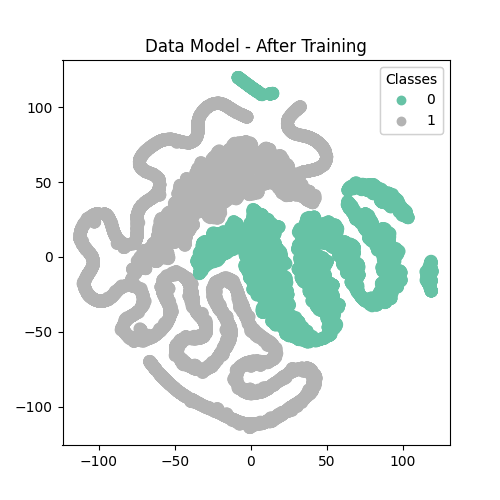
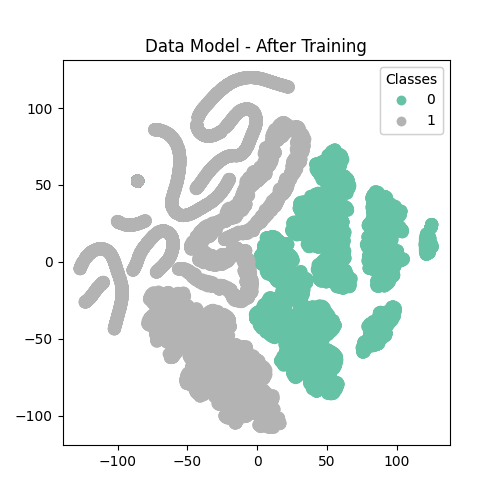
we pick the best model based on the performance on the test set.

diff --git a/runnet0.py b/runnet0.py
@@ -8,12 +8,12 @@ class Agent:
 class NeuralNetwork:
     def __init__(self, input_dim, hidden1_dim, hidden2_dim, hidden3_dim, output_dim, dropout_rate=0.2):
         self.weights = [
-            np.random.randn(hidden1_dim, input_dim),
-            np.random.randn(hidden2_dim, hidden1_dim),
-            np.random.randn(hidden3_dim, hidden2_dim),
-            np.random.randn(output_dim, hidden3_dim),
-
+            np.random.randn(hidden1_dim, input_dim) / np.sqrt(input_dim),
+            np.random.randn(hidden2_dim, hidden1_dim) / np.sqrt(hidden1_dim),
+            np.random.randn(hidden3_dim, hidden2_dim) / np.sqrt(hidden2_dim),
+            np.random.randn(output_dim, hidden3_dim) / np.sqrt(hidden3_dim),
         ]
+
         self.biases = [
             np.random.randn(hidden1_dim, 1),
             np.random.randn(hidden2_dim, 1),
@@ -21,52 +21,62 @@ class NeuralNetwork:
             np.random.randn(output_dim, 1)
         ]
         self.dropout_rate = dropout_rate
+        # New instance variables for batch norm
+        self.bn_means = [np.zeros((1, dim)) for dim in [hidden1_dim, hidden2_dim, hidden3_dim, output_dim]]
+        self.bn_vars = [np.zeros((1, dim)) for dim in [hidden1_dim, hidden2_dim, hidden3_dim, output_dim]]
+        self.bn_decay = 0.9  # Decay rate for the running averages
 
-    def propagate(self, X, training=True):
+    def propagate(self, X, training=True, return_hidden=False):
         X = np.array(X).reshape(-1, self.weights[0].shape[1])  # Ensure X has the correct shape
-        hidden1 = self.relu(np.dot(X, self.weights[0].T) + self.biases[0].T)
-        #
-        # if training:
-        #     self.dropout_rate = 0.2
-        #     # Apply dropout to hidden1
-        #     mask1 = np.random.binomial(1, 1 - self.dropout_rate, size=hidden1.shape) / (1 - self.dropout_rate)
-        #     hidden1 *= mask1
+        hidden1 = self.elu(np.dot(X, self.weights[0].T) + self.biases[0].T)
 
         hidden2 = self.relu(np.dot(hidden1, self.weights[1].T) + self.biases[1].T)
+        hidden2 = self.batch_norm(hidden2, 1, training)  # Specify layer index and training
 
-        # if training:
-        #     # Apply dropout to hidden layers
-        #     mask2 = np.random.binomial(1, 1 - self.dropout_rate, size=hidden2.shape) / (1 - self.dropout_rate)
-        #     hidden2 *= mask2
-
-        hidden3 = self.relu(np.dot(hidden2, self.weights[2].T) + self.biases[2].T)
-
+        hidden3 = self.elu(np.dot(hidden2, self.weights[2].T) + self.biases[2].T)
+        hidden3 = self.dropout(hidden3, self.dropout_rate, training)
 
         output_layer = self.sigmoid(np.dot(hidden3, self.weights[3].T) + self.biases[3].T)
 
-        return output_layer
-
+        # If we're interested in the activations of the last hidden layer for draw TSNE:
+        if return_hidden:
+            return hidden3
+        else:
+            return output_layer
 
     def relu(self, x):
         return np.maximum(0, x)
+
     def sigmoid(self, x):
         return 1 / (1 + np.exp(-x))
 
+    def elu(self, x,
+            alpha=1.0):  # The alpha parameter controls the value that ELU converges towards for negative net inputs
+        return np.where(x >= 0.0, x, alpha * (np.exp(x) - 1))
 
-def save_network(agent, filename):
-    with open(filename, "w") as f:
-        # Saving dimensions
-        f.write(f"{len(agent.neural_network.weights)}\n") # number of layers
-        for weight in agent.neural_network.weights:
-            f.write(f"{weight.shape[0]} {weight.shape[1]}\n") # dimensions of each layer
+    def dropout(self, X, dropout_rate, training=True):
+        if not training:
+            return X
+        keep_prob = 1 - dropout_rate
+        mask = np.random.binomial(1, keep_prob, size=X.shape) / keep_prob
+        return X * mask
 
-        # Saving weights
-        for weight in agent.neural_network.weights:
-            np.savetxt(f, weight)
+    def batch_norm(self, X, layer, training=True):
+        if training:
+            mean = np.mean(X, axis=0, keepdims=True)
+            var = np.var(X, axis=0, keepdims=True)
 
-        # Saving biases
-        for bias in agent.neural_network.biases:
-            np.savetxt(f, bias)
+            # Update running averages
+            self.bn_means[layer] = self.bn_decay * self.bn_means[layer] + (1 - self.bn_decay) * mean
+            self.bn_vars[layer] = self.bn_decay * self.bn_vars[layer] + (1 - self.bn_decay) * var
+        else:
+            # Use running averages
+            mean = self.bn_means[layer]
+            var = self.bn_vars[layer]
+
+        X_norm = (X - mean) / np.sqrt(var + 1e-8)
+        return X_norm
+
 
 def load_network(filename):
     # Load the dictionary from the numpy .npz file

diff --git a/NeuralNetworkV5.py b/NeuralNetworkV5.py
@@ -286,11 +286,21 @@ def execute(q, fig_graphs, ax1, fig_tsne_before, ax_tsne_before, fig_tsne_after,
 
         print(f"Train Loss: {train_loss}, Train Accuracy: {train_accuracy}")
         q.put(f"Train Loss: {train_loss}, Train Accuracy: {train_accuracy}")
+        if train_accuracy > 0.992 and train_loss < 0.02 and generations >= 200:
+            break
 
+    bestTestScore = -np.inf
+    bestLoss = np.inf
+    bestNeuralNetwork = best_solution
     for agent in agents:
         isTrain = False
         train_loss = agent.fitness
         test_accuracy = calculate_accuracy(agent, X_test, y_test, isTrain)
+        if test_accuracy > bestTestScore:
+            bestTestScore = test_accuracy
+            bestNeuralNetwork = agent
+        if test_accuracy == bestTestScore and bestLoss > train_loss:
+            bestNeuralNetwork = agent
         train_accuracy = calculate_accuracy(agent, X_train, y_train, isTrain)
 
         print(f"Train Loss: {train_loss}, Train Accuracy: {train_accuracy}, Test Accuracy: {test_accuracy}")
@@ -298,24 +308,24 @@ def execute(q, fig_graphs, ax1, fig_tsne_before, ax_tsne_before, fig_tsne_after,
 
 
     isTrain = False
-    train_loss = best_solution.fitness
-    test_accuracy = calculate_accuracy(best_solution, X_test, y_test, isTrain)
-    train_accuracy = calculate_accuracy(best_solution, X_train, y_train, isTrain)
+    train_loss = bestNeuralNetwork.fitness
+    test_accuracy = calculate_accuracy(bestNeuralNetwork, X_test, y_test, isTrain)
+    train_accuracy = calculate_accuracy(bestNeuralNetwork, X_train, y_train, isTrain)
     print("Best solution: ")
     print(f"Train Loss: {train_loss}, Train Accuracy: {train_accuracy}, Test Accuracy: {test_accuracy}")
-    y_pred = best_solution.neural_network.propagate(X_test)
+    y_pred = bestNeuralNetwork.neural_network.propagate(X_test)
     y_pred = np.round(y_pred)  # convert probabilities to class labels
     #cm = confusion_matrix(y_test, y_pred)
     precision, recall, fscore, _ = precision_recall_fscore_support(y_test, y_pred, average='binary')
     q.put(f'Please wait while we rendering the TSNE results...')
-    visualize(q, fig_tsne_after, ax_tsne_after, canvas3, best_solution, X_train, y_train, "Data Model - After Training", training=False)
+    visualize(q, fig_tsne_after, ax_tsne_after, canvas3, bestNeuralNetwork, X_train, y_train, "Data Model - After Training", training=False)
     canvas3.draw()
     q.put(f'Done!')
     # Add the new metrics to the GUI
     q.put(('result', train_loss, precision, recall, fscore, test_accuracy, train_accuracy))
     fig_graphs.savefig('Graph_Results.png')
-    save_network(best_solution, "wnet")
-    return best_solution
+    save_network(bestNeuralNetwork, "wnet")
+    return bestNeuralNetwork
 
 def save_network(agent, filename):
     # Save weights and biases into dictionary
